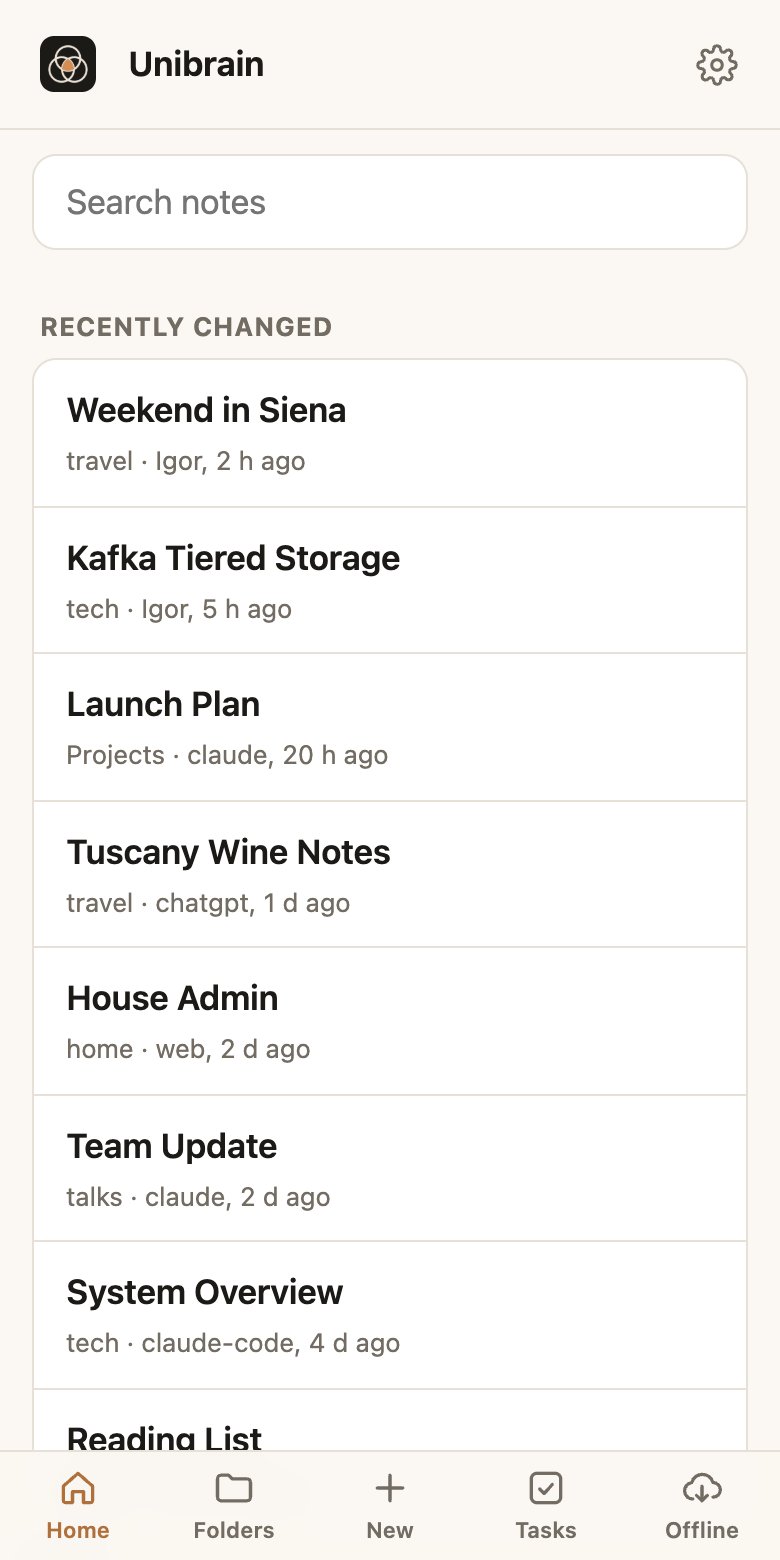
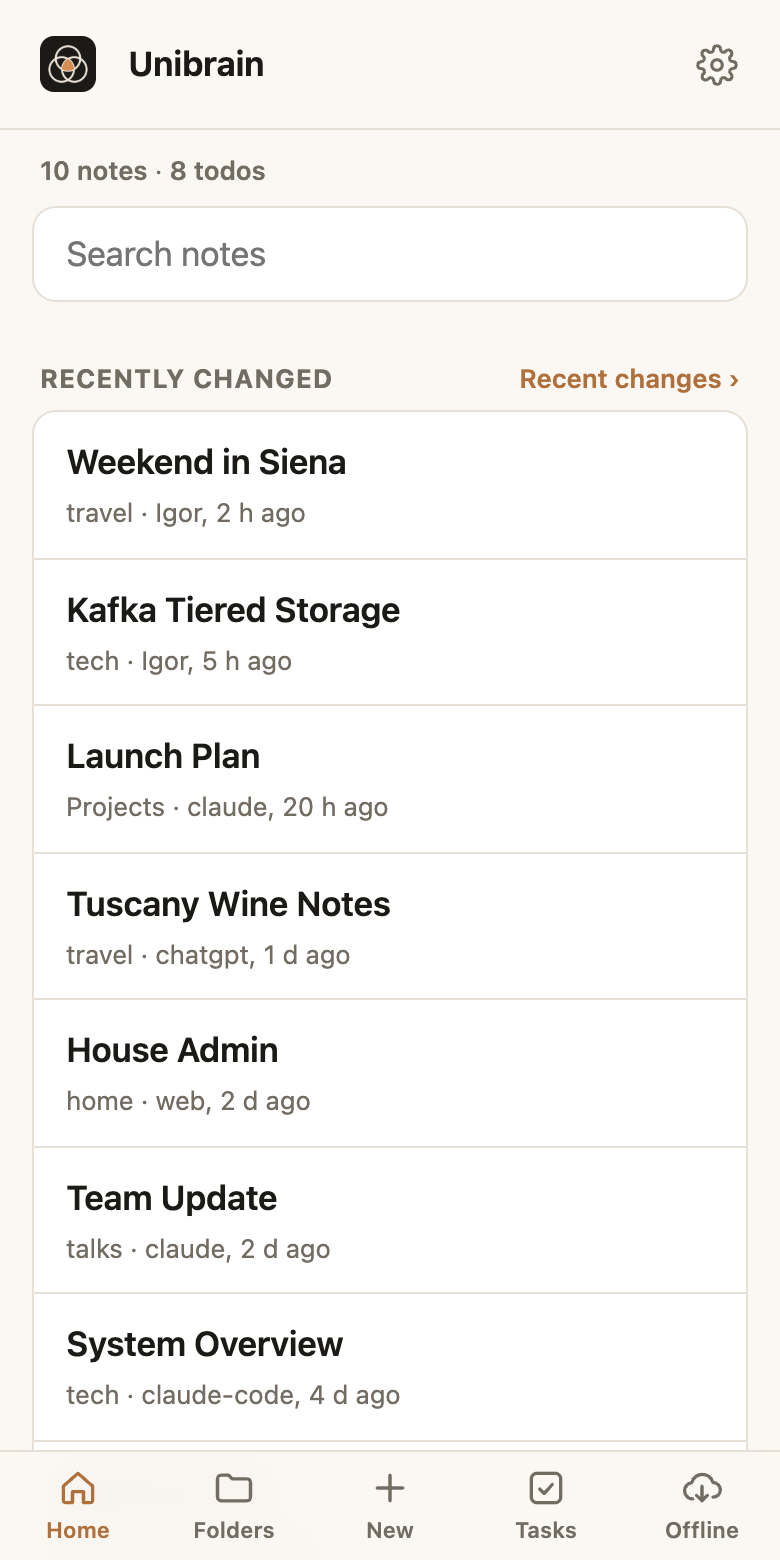
Home's line of counts; new Home screenshot

Changed region(s): [[0.0308, 0.0923, 0.5231, 0.9538], [0.6462, 0.2154, 0.9231, 0.2769]]

diff --git a/docs/features/web-app.md b/docs/features/web-app.md
@@ -24,6 +24,7 @@ The web app is where you **read, review and write**: what your agents saved, and
 ## Getting around
 
 - A **tab bar** at the bottom: Home, Folders, New, Tasks, Offline.
+- **Home** starts with one line of numbers, how many notes and open todos you have. Tap a number to go to Folders or Tasks.
 - **Pull down** at the top of any screen to refresh it.
 - **Back keeps your place:** your scroll position, search results and expanded lists.
 - **Back-to-top** and **jump-to-bottom** buttons on long pages, handy for logs whose newest entries are at the end.
